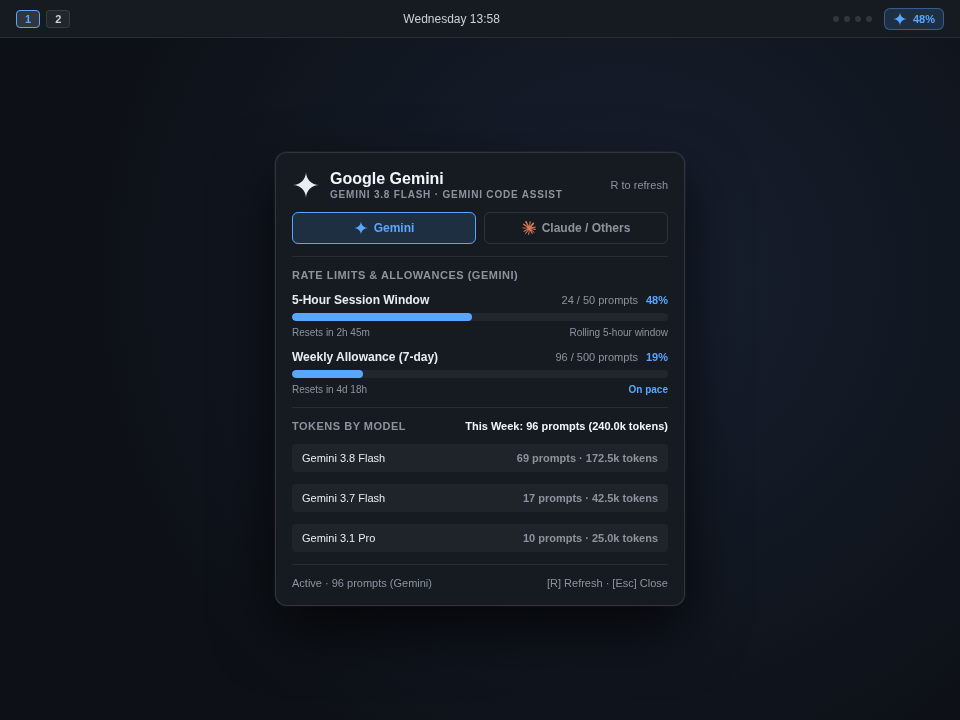
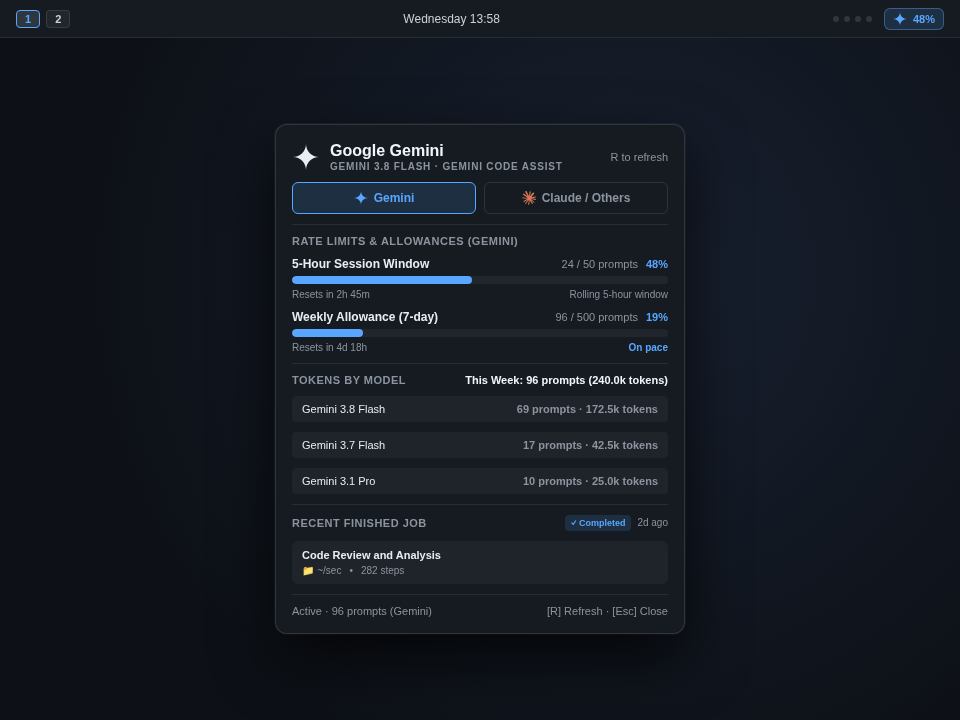
Restore Recent Finished Job section using database summaries without active chat inspection

Changed region(s): [[0.2812, 0.1833, 0.6875, 0.8556], [0.4688, 0.3972, 0.7188, 0.7639], [0.5625, 0.7944, 0.7188, 0.8556]]

diff --git a/Panel.qml b/Panel.qml
@@ -53,7 +53,7 @@ Panel {
     open: root.opened
     focusTarget: keyCatcher
     contentWidth: keyboardPanel.fittedContentWidth(Style.space(380))
-    contentHeight: keyboardPanel.fittedContentHeight(Style.space(480), Style.space(480))
+    contentHeight: keyboardPanel.fittedContentHeight(Style.space(560), Style.space(560))
 
     PanelKeyCatcher {
       id: keyCatcher
@@ -454,7 +454,7 @@ Panel {
         Column {
           id: modelsColumn
           anchors.top: tokensHeaderRow.bottom
-          anchors.topMargin: Style.space(8)
+          anchors.topMargin: Style.space(6)
           anchors.left: parent.left
           anchors.right: parent.right
           spacing: Style.space(4)
@@ -466,7 +466,7 @@ Panel {
 
             delegate: Rectangle {
               width: modelsColumn.width
-              height: Style.space(28)
+              height: Style.space(26)
               color: Style.selectedFillFor(root.foreground, root.accent)
               radius: Style.space(4)
 
@@ -498,7 +498,109 @@ Panel {
           }
         }
 
-        // ------------------ 5. Bottom Footer / Status ------------------
+        // ------------------ 5. Recent Finished Job ------------------
+        Item {
+          id: jobHeaderRow
+          anchors.top: modelsColumn.bottom
+          anchors.topMargin: Style.space(10)
+          anchors.left: parent.left
+          anchors.right: parent.right
+          height: Style.space(16)
+          visible: Boolean(root.usage && root.usage.recentJob && root.usage.recentJob.title)
+
+          Text {
+            anchors.left: parent.left
+            anchors.verticalCenter: parent.verticalCenter
+            text: "RECENT FINISHED JOB"
+            color: root.dim
+            font.family: root.fontFamily
+            font.pixelSize: Style.font.caption
+            font.bold: true
+          }
+
+          Row {
+            anchors.right: parent.right
+            anchors.verticalCenter: parent.verticalCenter
+            spacing: Style.space(6)
+
+            Rectangle {
+              height: Style.space(15)
+              width: statusBadgeText.implicitWidth + Style.space(10)
+              color: Style.selectedFillFor(root.foreground, root.accent)
+              radius: Style.space(4)
+              anchors.verticalCenter: parent.verticalCenter
+
+              Text {
+                id: statusBadgeText
+                anchors.centerIn: parent
+                text: "✓ " + (root.usage && root.usage.recentJob ? root.usage.recentJob.status : "Completed")
+                color: root.accent
+                font.family: root.fontFamily
+                font.pixelSize: Style.font.caption - 2
+                font.bold: true
+              }
+            }
+
+            Text {
+              anchors.verticalCenter: parent.verticalCenter
+              text: root.usage && root.usage.recentJob ? root.usage.recentJob.timeAgo : ""
+              color: root.dim
+              font.family: root.fontFamily
+              font.pixelSize: Style.font.caption - 1
+            }
+          }
+        }
+
+        Rectangle {
+          id: jobCard
+          anchors.top: jobHeaderRow.bottom
+          anchors.topMargin: Style.space(6)
+          anchors.left: parent.left
+          anchors.right: parent.right
+          height: Style.space(52)
+          color: Style.selectedFillFor(root.foreground, root.accent)
+          radius: Style.space(6)
+          visible: Boolean(root.usage && root.usage.recentJob && root.usage.recentJob.title)
+
+          Column {
+            anchors.fill: parent
+            anchors.margins: Style.space(8)
+            spacing: Style.space(3)
+
+            Text {
+              width: parent.width
+              text: root.usage && root.usage.recentJob ? root.usage.recentJob.title : ""
+              color: root.foreground
+              font.family: root.fontFamily
+              font.pixelSize: Style.font.caption
+              font.bold: true
+              elide: Text.ElideRight
+            }
+
+            Row {
+              width: parent.width
+              spacing: Style.space(8)
+
+              Text {
+                text: "📁 " + (root.usage && root.usage.recentJob ? root.usage.recentJob.workspace : "~")
+                color: root.dim
+                font.family: root.fontFamily
+                font.pixelSize: Style.font.caption - 1
+              }
+
+              Item { width: Style.space(4); height: 1 }
+
+              Text {
+                text: root.usage && root.usage.recentJob ? (root.usage.recentJob.steps + " steps") : ""
+                color: root.dim
+                font.family: root.fontFamily
+                font.pixelSize: Style.font.caption - 1
+              }
+            }
+          }
+        }
+
+        // ------------------ 6. Bottom Footer / Status ------------------
         PanelSeparator {
           id: footerSeparator
           anchors.left: parent.left

diff --git a/collector.py b/collector.py
@@ -1,7 +1,7 @@
 #!/usr/bin/env python3
 """
 Gemini & Antigravity Usage Collector for Omarchy.
-Extracts usage statistics, rate limits, prompts, and pace for two categories:
+Extracts usage statistics, rate limits, prompts, and completed jobs for two categories:
   1) Gemini (Google Gemini models)
   2) Claude / Others (Claude Opus/Sonnet, GPT-OSS, and other third-party models)
 Outputs JSON for the Omarchy Bar Widget & Details Panel.
@@ -12,6 +12,7 @@ import argparse
 import json
 import os
 import re
+import sqlite3
 import sys
 import time
 from datetime import datetime, timedelta, timezone
@@ -29,6 +30,7 @@ def get_paths():
         "gemini_dir": home / ".gemini",
         "antigravity_cli": home / ".gemini" / "antigravity-cli",
         "history_file": home / ".gemini" / "antigravity-cli" / "history.jsonl",
+        "db_file": home / ".gemini" / "antigravity-cli" / "conversation_summaries.db",
         "settings_file": home / ".gemini" / "antigravity-cli" / "settings.json",
         "oauth_creds": home / ".gemini" / "oauth_creds.json",
         "antigravity_token": home / ".gemini" / "antigravity-cli" / "antigravity-oauth-token",
@@ -51,6 +53,73 @@ def get_category(model_name):
     if "gemini" in low:
         return "gemini"
     return "claude_others"
+
+
+def sanitize_path(path_str):
+    if not path_str:
+        return "~"
+    p = path_str.replace("file://", "")
+    return re.sub(r"^/home/[^/]+", "~", p)
+
+
+def parse_recent_finished_job(db_file):
+    if not db_file.exists():
+        return None
+
+    try:
+        conn = sqlite3.connect(f"file:{db_file}?mode=ro", uri=True)
+        c = conn.cursor()
+        c.execute(
+            "SELECT conversation_id, title, preview, step_count, last_modified_time, workspace_uris "
+            "FROM conversation_summaries WHERE killed = 0 "
+            "ORDER BY last_modified_time DESC LIMIT 1"
+        )
+        row = c.fetchone()
+        conn.close()
+
+        if not row:
+            return None
+
+        cid, title, preview, steps, mtime, uris = row
+        ws = "~"
+        try:
+            u = json.loads(uris)
+            if u and isinstance(u, list):
+                ws = sanitize_path(u[0])
+            elif uris:
+                ws = sanitize_path(str(uris))
+        except Exception:
+            pass
+
+        time_ago = "Recently"
+        if mtime:
+            try:
+                dt = datetime.fromisoformat(str(mtime).replace("Z", "+00:00"))
+                diff_sec = max(0, int((datetime.now(timezone.utc) - dt).total_seconds()))
+                if diff_sec < 60:
+                    time_ago = "Just now"
+                elif diff_sec < 3600:
+                    time_ago = f"{diff_sec // 60}m ago"
+                elif diff_sec < 86400:
+                    time_ago = f"{diff_sec // 3600}h ago"
+                else:
+                    time_ago = f"{diff_sec // 86400}d ago"
+            except Exception:
+                pass
+
+        return {
+            "id": str(cid or "")[:8],
+            "fullId": str(cid or ""),
+            "title": (title or "Completed Task").strip(),
+            "workspace": ws,
+            "status": "Completed",
+            "steps": steps or 0,
+            "timeAgo": time_ago,
+            "summary": (preview or "").strip()[:140]
+        }
+    except Exception as e:
+        sys.stderr.write(f"Warning: could not query recent job from db: {e}\n")
+        return None
 
 
 def build_conversation_timelines(paths):
@@ -526,6 +595,7 @@ def main():
     categories = parse_history_by_category(paths, allowances, meta["model_name"])
     active_category = get_category(meta["model_name"])
     active_cat_data = categories.get(active_category) or categories["gemini"]
+    recent_job = parse_recent_finished_job(paths["db_file"]) if not args.limits_only else None
 
     result = {
         "id": "gemini",
@@ -550,6 +620,7 @@ def main():
         "weekly": active_cat_data["weekly"],
         "modelUsageList": active_cat_data["modelUsageList"],
 
+        "recentJob": recent_job,
         "updatedAt": datetime.now(timezone.utc).isoformat(),
         "statusText": "" if meta["ready"] else "Waiting for auth"
     }
